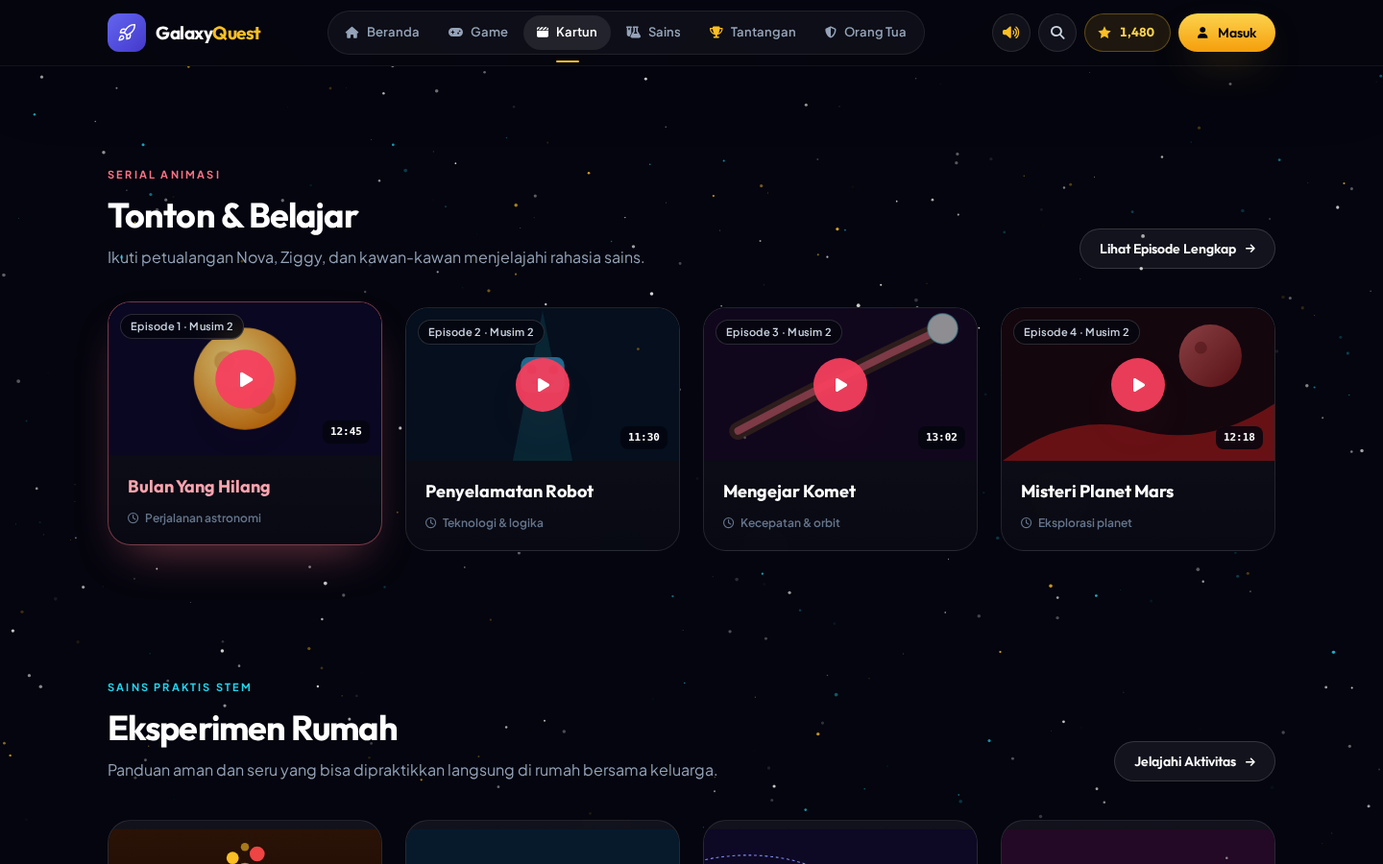
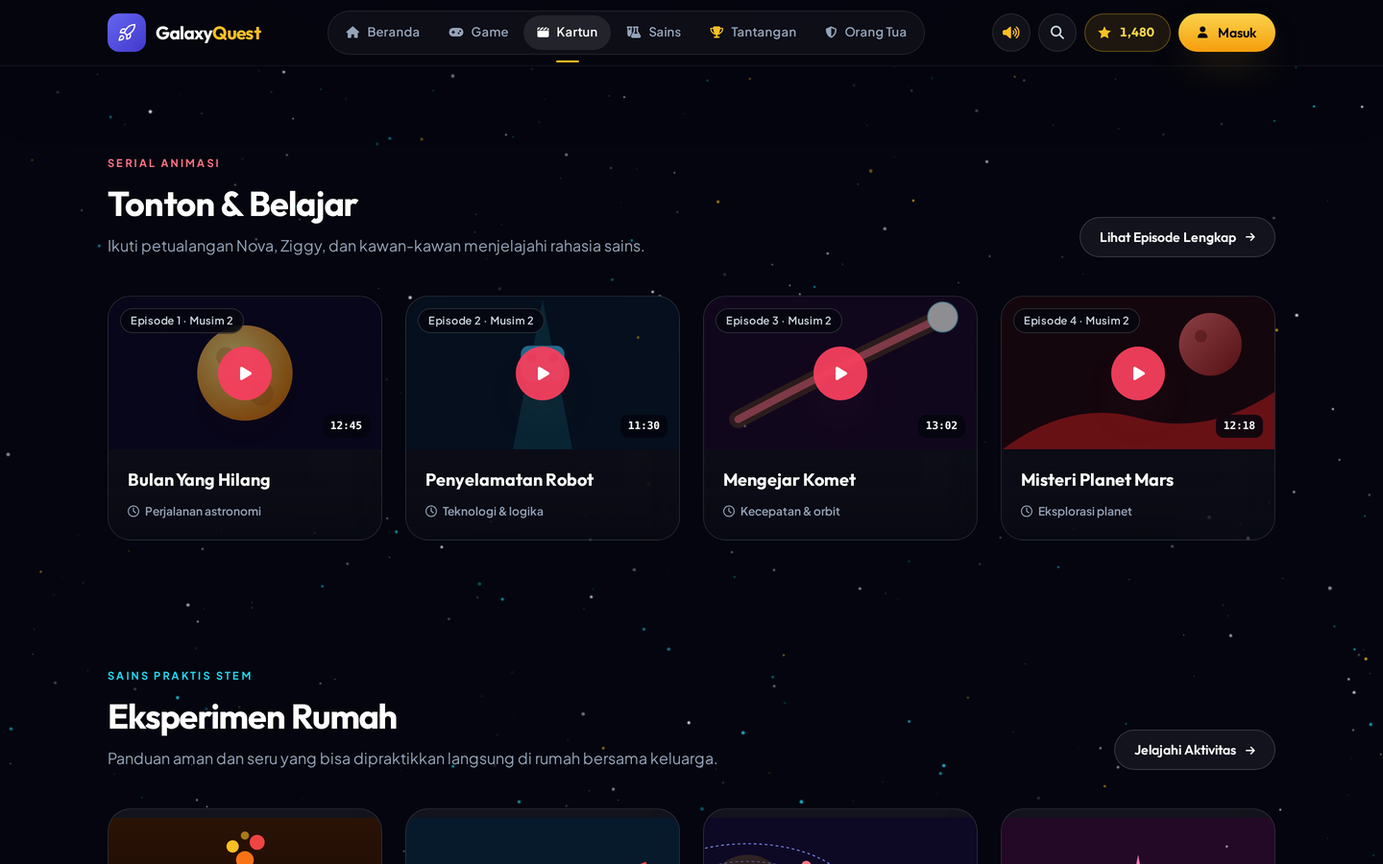
Fix README accuracy and regenerate screenshots
The README stated a contrast figure the code did not meet, and the mobile
screenshot was unusable in the rendered document.

Screenshots
- Regenerate every screenshot from the current UI at 1440x900, supersampled
  from a 2x capture so small text stays crisp.
- 09-mobile.png was a 414x10362 full-page capture displayed at width="140",
  which rendered as a ~140x3504 sliver. Replace it with a 414x896 viewport
  capture and widen the README to 320.
- Modal screenshots now show the live modal states (math game, star
  collection) instead of whatever scroll position happened to be captured.

Accessibility
- Replace text-slate-500 with text-slate-400 across 35 call sites. Those
  labels measured 4.11:1 to 4.27:1 against the dark surfaces, below the
  4.5:1 WCAG AA threshold for their 10-12px sizes. The page now measures a
  minimum of 7.55:1 with zero AA failures across 360/768/1440 widths and all
  16 modal states.

README
- Correct the accessibility claim from "7,9:1" to the measured 7,5:1 and
  name the WCAG AA threshold it is measured against.
- Complete the tailwind.config palette snippet: it omitted ink-850/750/700
  and brand-300/600, and the aqua/coral/mint 300 steps, and never mentioned
  the boxShadow or font tokens defined in the same block.
- Complete the Games.launch() snippet, which omitted the alien and racer
  branches.
- Link the live GitHub Pages demo, which the repo homepage already points at
  but the README never referenced.
[…]

diff --git a/index.html b/index.html
@@ -219,17 +219,17 @@
 
                             <dl class="mt-10 grid grid-cols-3 gap-px overflow-hidden rounded-2xl border border-white/10 bg-white/[0.03] max-w-lg mx-auto lg:mx-0">
                                 <div class="px-4 py-3.5 bg-ink-950/40">
-                                    <dt class="text-[10px] font-bold uppercase tracking-[0.14em] text-slate-500">Pengguna</dt>
+                                    <dt class="text-[10px] font-bold uppercase tracking-[0.14em] text-slate-400">Pengguna</dt>
                                     <dd class="mt-1 font-display font-bold text-white text-lg tabular-nums">1 Juta+</dd>
                                 </div>
                                 <div class="px-4 py-3.5 bg-ink-950/40">
-                                    <dt class="text-[10px] font-bold uppercase tracking-[0.14em] text-slate-500">Rating</dt>
+                                    <dt class="text-[10px] font-bold uppercase tracking-[0.14em] text-slate-400">Rating</dt>
                                     <dd class="mt-1 font-display font-bold text-white text-lg tabular-nums flex items-center gap-1.5">
                                         4.9 <svg viewBox="0 0 24 24" class="w-3.5 h-3.5 fill-sun-400" aria-hidden="true"><path d="m12 2 2.9 6.26L22 9.27l-5 4.87 1.18 6.88L12 17.77l-6.18 3.25L7 14.14 2 9.27l7.1-1.01L12 2Z"/></svg>
                                     </dd>
                                 </div>
                                 <div class="px-4 py-3.5 bg-ink-950/40">
-                                    <dt class="text-[10px] font-bold uppercase tracking-[0.14em] text-slate-500">Materi</dt>
+                                    <dt class="text-[10px] font-bold uppercase tracking-[0.14em] text-slate-400">Materi</dt>
                                     <dd class="mt-1 font-display font-bold text-white text-lg tabular-nums">120+</dd>
                                 </div>
                             </dl>
@@ -291,7 +291,7 @@
                                         </div>
 
                                         <div class="absolute top-4 left-4 card rounded-2xl px-3.5 py-2.5 backdrop-blur-xl">
-                                            <div class="text-[10px] font-bold uppercase tracking-[0.14em] text-slate-500">Kapten Nova</div>
+                                            <div class="text-[10px] font-bold uppercase tracking-[0.14em] text-slate-400">Kapten Nova</div>
                                             <div class="font-display font-bold text-white text-sm mt-0.5">Pemandu Misi</div>
                                         </div>
 
@@ -300,7 +300,7 @@
                                                 <svg viewBox="0 0 24 24" class="w-3.5 h-3.5 fill-sun-400" aria-hidden="true"><path d="m12 2 2.9 6.26L22 9.27l-5 4.87 1.18 6.88L12 17.77l-6.18 3.25L7 14.14 2 9.27l7.1-1.01L12 2Z"/></svg>
                                             </span>
                                             <div>
-                                                <div class="text-[10px] font-bold uppercase tracking-[0.14em] text-slate-500">Misi Aktif</div>
+                                                <div class="text-[10px] font-bold uppercase tracking-[0.14em] text-slate-400">Misi Aktif</div>
                                                 <div class="font-display font-bold text-white text-sm">Nebula Matematika</div>
                                             </div>
                                         </div>
@@ -308,15 +308,15 @@
 
                                     <div class="grid grid-cols-3 gap-2 px-1 pt-3">
                                         <div class="rounded-2xl bg-white/[0.04] border border-white/[0.07] px-3 py-2.5">
-                                            <div class="text-[10px] font-bold uppercase tracking-[0.12em] text-slate-500">Seri</div>
+                                            <div class="text-[10px] font-bold uppercase tracking-[0.12em] text-slate-400">Seri</div>
                                             <div class="font-display font-bold text-white text-sm mt-0.5 tabular-nums">12 hari</div>
                                         </div>
                                         <div class="rounded-2xl bg-white/[0.04] border border-white/[0.07] px-3 py-2.5">
-                                            <div class="text-[10px] font-bold uppercase tracking-[0.12em] text-slate-500">Lencana</div>
+                                            <div class="text-[10px] font-bold uppercase tracking-[0.12em] text-slate-400">Lencana</div>
                                             <div class="font-display font-bold text-white text-sm mt-0.5 tabular-nums">8 / 24</div>
                                         </div>
                                         <div class="rounded-2xl bg-white/[0.04] border border-white/[0.07] px-3 py-2.5">
-                                            <div class="text-[10px] font-bold uppercase tracking-[0.12em] text-slate-500">Akurasi</div>
+                                            <div class="text-[10px] font-bold uppercase tracking-[0.12em] text-slate-400">Akurasi</div>
                                             <div class="font-display font-bold text-mint-400 text-sm mt-0.5 tabular-nums">94%</div>
                                         </div>
                                     </div>
@@ -338,7 +338,7 @@
                                 <span class="icon-tile bg-brand-500/10 border-brand-400/25 text-brand-300"><i class="fa-solid fa-gamepad text-lg" aria-hidden="true"></i></span>
                                 <span class="min-w-0">
                                     <span class="block font-display font-bold text-white text-sm">Main</span>
-                                    <span class="block text-xs text-slate-500 truncate">4 game edukasi</span>
+                                    <span class="block text-xs text-slate-400 truncate">4 game edukasi</span>
                                 </span>
                             </button>
 
@@ -346,7 +346,7 @@
                                 <span class="icon-tile bg-coral-500/10 border-coral-400/25 text-coral-400"><i class="fa-solid fa-clapperboard text-lg" aria-hidden="true"></i></span>
                                 <span class="min-w-0">
                                     <span class="block font-display font-bold text-white text-sm">Tonton</span>
-                                    <span class="block text-xs text-slate-500 truncate">Serial kartun</span>
+                                    <span class="block text-xs text-slate-400 truncate">Serial kartun</span>
                                 </span>
                             </button>
 
@@ -354,7 +354,7 @@
                                 <span class="icon-tile bg-aqua-500/10 border-aqua-400/25 text-aqua-400"><i class="fa-solid fa-flask-vial text-lg" aria-hidden="true"></i></span>
                                 <span class="min-w-0">
                                     <span class="block font-display font-bold text-white text-sm">Sains</span>
-                                    <span class="block text-xs text-slate-500 truncate">Eksperimen STEM</span>
+                                    <span class="block text-xs text-slate-400 truncate">Eksperimen STEM</span>
                                 </span>
                             </button>
 
@@ -362,7 +362,7 @@
                                 <span class="icon-tile bg-sun-400/10 border-sun-400/25 text-sun-400"><i class="fa-solid fa-trophy text-lg" aria-hidden="true"></i></span>
                                 <span class="min-w-0">
                                     <span class="block font-display font-bold text-white text-sm">Misi</span>
-                                    <span class="block text-xs text-slate-500 truncate">Target mingguan</span>
+                                    <span class="block text-xs text-slate-400 truncate">Target mingguan</span>
                                 </span>
                             </button>
 
@@ -370,7 +370,7 @@
                                 <span class="icon-tile bg-white/[0.06] border-white/15 text-white"><i class="fa-solid fa-award text-lg" aria-hidden="true"></i></span>
                                 <span class="min-w-0">
                                     <span class="block font-display font-bold text-white text-sm">Koleksi</span>
-                                    <span class="block text-xs text-slate-500 truncate">Hadiah bintang</span>
+                                    <span class="block text-xs text-slate-400 truncate">Hadiah bintang</span>
                                 </span>
                             </button>
 
@@ -589,7 +589,7 @@
                             </span>
                             <span class="flex flex-col flex-1 p-5">
                                 <h3 class="card-title group-hover:text-coral-300">Bulan Yang Hilang</h3>
-                                <span class="mt-3 flex items-center gap-1.5 text-xs text-slate-500 font-semibold">
+                                <span class="mt-3 flex items-center gap-1.5 text-xs text-slate-400 font-semibold">
                                     <i class="fa-regular fa-clock" aria-hidden="true"></i> Perjalanan astronomi
                                 </span>
                             </span>
@@ -619,7 +619,7 @@
                             </span>
                             <span class="flex flex-col flex-1 p-5">
                                 <h3 class="card-title group-hover:text-coral-300">Penyelamatan Robot</h3>
-                                <span class="mt-3 flex items-center gap-1.5 text-xs text-slate-500 font-semibold">
+                                <span class="mt-3 flex items-center gap-1.5 text-xs text-slate-400 font-semibold">
                                     <i class="fa-regular fa-clock" aria-hidden="true"></i> Teknologi &amp; logika
                                 </span>
                             </span>
@@ -647,7 +647,7 @@
                             </span>
                             <span class="flex flex-col flex-1 p-5">
                                 <h3 class="card-title group-hover:text-coral-300">Mengejar Komet</h3>
-                                <span class="mt-3 flex items-center gap-1.5 text-xs text-slate-500 font-semibold">
+                                <span class="mt-3 flex items-center gap-1.5 text-xs text-slate-400 font-semibold">
                                     <i class="fa-regular fa-clock" aria-hidden="true"></i> Kecepatan &amp; orbit
                                 </span>
                             </span>
@@ -678,7 +678,7 @@
                             </span>
                             <span class="flex flex-col flex-1 p-5">
                                 <h3 class="card-title group-hover:text-coral-300">Misteri Planet Mars</h3>
-                                <span class="mt-3 flex items-center gap-1.5 text-xs text-slate-500 font-semibold">
+                                <span class="mt-3 flex items-center gap-1.5 text-xs text-slate-400 font-semibold">
                                     <i class="fa-regular fa-clock" aria-hidden="true"></i> Eksplorasi planet
                                 </span>
                             </span>
@@ -725,7 +725,7 @@
                                 <span class="chip w-fit bg-sun-400/10 border-sun-400/25 text-sun-300">Reaksi Kimia</span>
                                 <h3 class="card-title mt-3 group-hover:text-sun-300">Gunung Berapi Mini</h3>
                                 <p class="mt-2 text-[13px] text-slate-400 leading-relaxed flex-1">Reaksi soda kue dan cuka menciptakan erupsi buih warna-warni.</p>
-                                <span class="mt-4 pt-4 divider flex items-center gap-1.5 text-xs font-semibold text-slate-500">
+                                <span class="mt-4 pt-4 divider flex items-center gap-1.5 text-xs font-semibold text-slate-400">
                                     <i class="fa-solid fa-shield-halved text-mint-400" aria-hidden="true"></i> Aman di rumah · 15 menit
                                 </span>
                             </span>
@@ -749,7 +749,7 @@
                                 <span class="chip w-fit bg-aqua-400/10 border-aqua-400/25 text-aqua-300">Optika &amp; Fisika</span>
                                 <h3 class="card-title mt-3 group-hover:text-aqua-300">Pelangi Dalam Kamar</h3>
                                 <p class="mt-2 text-[13px] text-slate-400 leading-relaxed flex-1">Gunakan prisma air dan pembiasan cahaya matahari.</p>
-                                <span class="mt-4 pt-4 divider flex items-center gap-1.5 text-xs font-semibold text-slate-500">
+                                <span class="mt-4 pt-4 divider flex items-center gap-1.5 text-xs font-semibold text-slate-400">
                                     <i class="fa-solid fa-shield-halved text-mint-400" aria-hidden="true"></i> Aman di rumah · 10 menit
                                 </span>
                             </span>
@@ -773,7 +773,7 @@
                                 <span class="chip w-fit bg-brand-400/10 border-brand-400/25 text-brand-300">Astronomi</span>
                                 <h3 class="card-title mt-3 group-hover:text-brand-300">Model Tata Surya</h3>
                                 <p class="mt-2 text-[13px] text-slate-400 leading-relaxed flex-1">Buat replika urutan planet dengan skala jarak sederhana.</p>
-                                <span class="mt-4 pt-4 divider flex items-center gap-1.5 text-xs font-semibold text-slate-500">
+                                <span class="mt-4 pt-4 divider flex items-center gap-1.5 text-xs font-semibold text-slate-400">
                                     <i class="fa-solid fa-shield-halved text-mint-400" aria-hidden="true"></i> Butuh pendamping · 30 menit
                                 </span>
                             </span>
@@ -795,7 +795,7 @@
                                 <span class="chip w-fit bg-coral-400/10 border-coral-400/25 text-coral-300">Kristalografi</span>
                                 <h3 class="card-title mt-3 group-hover:text-coral-300">Menumbuhkan Kristal</h3>
                                 <p class="mt-2 text-[13px] text-slate-400 leading-relaxed flex-1">Pelajari proses kristalisasi larutan garam mineral alami.</p>
-                                <span class="mt-4 pt-4 divider flex items-center gap-1.5 text-xs font-semibold text-slate-500">
+                                <span class="mt-4 pt-4 divider flex items-center gap-1.5 text-xs font-semibold text-slate-400">
                                     <i class="fa-solid fa-shield-halved text-mint-400" aria-hidden="true"></i> Butuh pendamping · 3 hari
                                 </span>
                             </span>
@@ -831,7 +831,7 @@
                                     </span>
                                     <span class="text-center">
                                         <span class="block font-display font-bold text-white text-[13px] leading-tight">Nova</span>
-                                        <span class="block text-[10px] font-semibold uppercase tracking-wider text-slate-500 mt-0.5">Kapten</span>
+                                        <span class="block text-[10px] font-semibold uppercase tracking-wider text-slate-400 mt-0.5">Kapten</span>
                                     </span>
                                 </button>
 
@@ -851,7 +851,7 @@
                                     </span>
                                     <span class="text-center">
                                         <span class="block font-display font-bold text-white text-[13px] leading-tight">Ziggy</span>
-                                        <span class="block text-[10px] font-semibold uppercase tracking-wider text-slate-500 mt-0.5">Robot AI</span>
+                                        <span class="block text-[10px] font-semibold uppercase tracking-wider text-slate-400 mt-0.5">Robot AI</span>
                                     </span>
                                 </button>
 
@@ -867,7 +867,7 @@
                                     </span>
                                     <span class="text-center">
                                         <span class="block font-display font-bold text-white text-[13px] leading-tight">Luna</span>
-                                        <span class="block text-[10px] font-semibold uppercase tracking-wider text-slate-500 mt-0.5">Ilmuwan</span>
+                                        <span class="block text-[10px] font-semibold uppercase tracking-wider text-slate-400 mt-0.5">Ilmuwan</span>
                                     </span>
                                 </button>
 
@@ -884,7 +884,7 @@
                                     </span>
                                     <span class="text-center">
                                         <span class="block font-display font-bold text-white text-[13px] leading-tight">Orbit</span>
-                                        <span class="block text-[10px] font-semibold uppercase tracking-wider text-slate-500 mt-0.5">Alien Ramah</span>
+                                        <span class="block text-[10px] font-semibold uppercase tracking-wider text-slate-400 mt-0.5">Alien Ramah</span>
                                     </span>
                                 </button>
 
@@ -901,7 +901,7 @@
                                     </span>
                                     <span class="text-center">
                                         <span class="block font-display font-bold text-white text-[13px] leading-tight">Comet</span>
-                                        <span class="block text-[10px] font-semibold uppercase tracking-wider text-slate-500 mt-0.5">Pilot</span>
+                                        <span class="block text-[10px] font-semibold uppercase tracking-wider text-slate-400 mt-0.5">Pilot</span>
                                     </span>
                                 </button>
                             </div>
@@ -936,7 +936,7 @@
                                     <div class="w-full h-2 rounded-full bg-white/10 overflow-hidden">
                                         <div id="challengeProgressBar" class="h-full rounded-full bg-gradient-to-r from-sun-300 to-sun-500 transition-all duration-500" style="width: 66%;"></div>
                                     </div>
-                                    <div class="mt-3 flex items-center gap-4 text-[11px] text-slate-500 font-semibold">
+                                    <div class="mt-3 flex items-center gap-4 text-[11px] text-slate-400 font-semibold">
                                         <span class="flex items-center gap-1.5"><i class="fa-solid fa-circle-check text-mint-400" aria-hidden="true"></i> 3 tugas</span>
                                         <span class="flex items-center gap-1.5"><i class="fa-solid fa-gift text-brand-400" aria-hidden="true"></i> 100 bintang</span>
                                     </div>
@@ -1026,7 +1026,7 @@
                                 </span>
                                 <span>
                                     <span class="block font-display font-bold text-white text-sm">Siti Rahma</span>
-                                    <span class="block text-xs text-slate-500 mt-0.5">Ibu dari 2 anak · Pengguna 2 tahun</span>
+                                    <span class="block text-xs text-slate-400 mt-0.5">Ibu dari 2 anak · Pengguna 2 tahun</span>
                                 </span>
                             </figcaption>
                         </figure>
@@ -1133,7 +1133,7 @@
                     </div>
                 </div>
 
-                <div class="mt-12 pt-6 border-t border-white/[0.07] flex flex-col sm:flex-row items-center justify-between gap-4 text-xs text-slate-500">
+                <div class="mt-12 pt-6 border-t border-white/[0.07] flex flex-col sm:flex-row items-center justify-between gap-4 text-xs text-slate-400">
                     <p>&copy; 2026 Galaxy Quest Learning Inc. Hak cipta dilindungi undang-undang.</p>
                     <div class="flex flex-wrap justify-center gap-5">
                         <a href="#" class="hover:text-slate-300 transition-colors">Kebijakan Privasi</a>
@@ -1219,7 +1219,7 @@
                     icon.className = 'fa-solid fa-volume-high text-sun-400 text-sm';
                     Toast.show('Efek suara diaktifkan', 'fa-volume-high');
                 } else {
-                    icon.className = 'fa-solid fa-volume-xmark text-slate-500 text-sm';
+                    icon.className = 'fa-solid fa-volume-xmark text-slate-400 text-sm';
                     Toast.show('Efek suara dinonaktifkan', 'fa-volume-xmark');
                 }
             }
@@ -1331,7 +1331,7 @@
             ui: {
                 badge: 'grid place-items-center w-14 h-14 rounded-2xl text-xl shrink-0',
                 panel: 'rounded-2xl bg-white/[0.03] border border-white/[0.08] p-4',
-                label: 'text-[10px] font-bold uppercase tracking-[0.14em] text-slate-500',
+                label: 'text-[10px] font-bold uppercase tracking-[0.14em] text-slate-400',
                 btnPrimary: 'w-full py-3.5 rounded-xl bg-gradient-to-b from-sun-300 to-sun-500 text-ink-950 font-display font-bold shadow-glow-sun hover:-translate-y-0.5 active:translate-y-0 transition-transform duration-200',
                 btnSoft: 'w-full py-3.5 rounded-xl bg-white/[0.06] border border-white/15 text-white font-display font-bold hover:bg-white/[0.12] transition-colors duration-200'
             },
@@ -1472,7 +1472,7 @@
                     <div class="space-y-4">
                         <h3 class="font-display font-bold text-white text-lg">Cari di Galaxy Quest</h3>
                         <div class="relative">
-                            <i class="fa-solid fa-magnifying-glass absolute left-4 top-1/2 -translate-y-1/2 text-slate-500 text-sm" aria-hidden="true"></i>
+                            <i class="fa-solid fa-magnifying-glass absolute left-4 top-1/2 -translate-y-1/2 text-slate-400 text-sm" aria-hidden="true"></i>
                             <input type="text" id="searchInput" onkeyup="if(event.key==='Enter'){ Toast.show('Pencarian dimuat', 'fa-magnifying-glass'); Modals.close(); }" placeholder="Cari game, kartun, atau sains..." class="w-full py-3.5 pl-11 pr-4 bg-ink-900 border border-white/15 rounded-xl text-white placeholder-slate-500 text-sm focus:outline-none focus:border-brand-400 transition-colors">
                         </div>
                         <div>
@@ -1532,7 +1532,7 @@
                                         <i class="fa-solid fa-circle ${AppState.stars >= t ? 'text-mint-400' : 'text-slate-600'} text-[6px]" aria-hidden="true"></i>
                                         Lencana ${t.toLocaleString()} bintang
                                     </span>
-                                    <span class="${AppState.stars >= t ? 'text-mint-400' : 'text-slate-500'} font-bold">${AppState.stars >= t ? 'Terbuka' : `${(t - AppState.stars).toLocaleString()} lagi`}</span>
+                                    <span class="${AppState.stars >= t ? 'text-mint-400' : 'text-slate-400'} font-bold">${AppState.stars >= t ? 'Terbuka' : `${(t - AppState.stars).toLocaleString()} lagi`}</span>
                                 </div>
                             `).join('')}
                         </div>
@@ -1587,7 +1587,7 @@
                                 <button onclick="Games.checkMath(${opt})" class="py-3.5 rounded-xl bg-white/[0.06] border border-white/10 text-white font-display font-bold text-lg hover:bg-brand-500 hover:border-brand-400 hover:text-white transition-colors duration-200 tabular-nums">${opt}</button>
                             `).join('')}
                         </div>
-                        <div class="flex items-center gap-2.5 text-xs text-slate-500">
+                        <div class="flex items-center gap-2.5 text-xs text-slate-400">
                             <i class="fa-solid fa-star text-sun-400" aria-hidden="true"></i> Hadiah: 50 bintang untuk jawaban benar
                         </div>
                     </div>
@@ -1625,7 +1625,7 @@
                                 <button id="card-${idx}" onclick="Games.flipCard(${idx}, '${icon}')" aria-label="Kartu ${idx + 1}" class="h-20 rounded-2xl bg-ink-900 border border-mint-400/30 text-3xl grid place-items-center font-bold text-transparent hover:border-mint-400/70 transition-colors duration-200">?</button>
                             `).join('')}
                         </div>
-                        <div class="flex items-center gap-2.5 text-xs text-slate-500">
+                        <div class="flex items-center gap-2.5 text-xs text-slate-400">
                             <i class="fa-solid fa-star text-sun-400" aria-hidden="true"></i> Hadiah: 60 bintang jika semua pasangan ditemukan
                         </div>
                     </div>

diff --git a/README.md b/README.md
@@ -12,6 +12,8 @@
 [![License: MIT](https://img.shields.io/badge/License-MIT-yellow.svg)](LICENSE)
 [![Bahasa](https://img.shields.io/badge/bahasa-Indonesia-red.svg)](#)
 
+**[🚀 Buka demo langsung →](https://antono4.github.io/GalaxyQuest/)**
+
 [Tentang](#-tentang) · [Tangkapan Layar](#-tangkapan-layar) · [Fitur](#-fitur) · [Menjalankan](#-menjalankan-proyek) · [Lisensi](#-lisensi)
 
 </div>
@@ -113,7 +115,7 @@ pengaturan pendampingan.
 ### Tampilan Seluler
 
 <div align="center">
-  <img src="docs/screenshots/09-mobile.png" alt="Tampilan Galaxy Quest pada layar ponsel" width="140">
+  <img src="docs/screenshots/09-mobile.png" alt="Tampilan Galaxy Quest pada layar ponsel" width="320">
 </div>
 
 Sepenuhnya responsif — tata letak menyesuaikan dari ponsel hingga layar lebar.
@@ -152,7 +154,7 @@ Sepenuhnya responsif — tata letak menyesuaikan dari ponsel hingga layar lebar.
   dipindahkan ke tombol tutup saat modal dibuka dan *scroll* halaman dikunci.
 - Tautan **"Lewati ke konten utama"** untuk pengguna keyboard dan pembaca layar.
 - Setiap elemen interaktif memiliki `aria-label`, indikator fokus yang terlihat, dan
-  kontras teks minimal 7,9:1.
+  kontras teks terukur minimal **7,5:1** — di atas ambang WCAG AA (4,5:1).
 - Animasi otomatis dinonaktifkan saat pengguna mengaktifkan `prefers-reduced-motion`.
 
 ---
@@ -249,14 +251,20 @@ utama), `sun` (hadiah & CTA), `aqua` (sains), `coral` (kartun), `mint` (status a
 
 ```js
 colors: {
-  ink:   { 950: '#04050e', 900: '#090b18', 800: '#141830' }, // latar & kartu
-  brand: { 400: '#818cf8', 500: '#6366f1', 700: '#4338ca' }, // aksi utama
+  ink:   { 950: '#04050e', 900: '#090b18', 850: '#0e1123',
+           800: '#141830', 750: '#1a1f3d', 700: '#232850' }, // latar & kartu
+  brand: { 300: '#a5b4fc', 400: '#818cf8', 500: '#6366f1',
+           600: '#4f46e5', 700: '#4338ca' },                 // aksi utama
   sun:   { 300: '#fcd34d', 400: '#fbbf24', 500: '#f59e0b' }, // bintang & tombol utama
-  aqua:  { 400: '#22d3ee', 500: '#06b6d4' },                 // eksperimen sains
-  coral: { 400: '#fb7185', 500: '#f43f5e' },                 // serial kartun
-  mint:  { 400: '#34d399', 500: '#10b981' },                 // status aman
+  aqua:  { 300: '#67e8f9', 400: '#22d3ee', 500: '#06b6d4' }, // eksperimen sains
+  coral: { 300: '#fda4af', 400: '#fb7185', 500: '#f43f5e' }, // serial kartun
+  mint:  { 300: '#6ee7b7', 400: '#34d399', 500: '#10b981' }, // status aman
 }
 ```
+
+Blok yang sama juga mendefinisikan token elevasi (`boxShadow`: `glow-sun`,
+`glow-brand`, `glow-aqua`, `glow-coral`, `glow-mint`, `panel`) dan dua keluarga font
+(`display` untuk judul, `body` untuk teks).
 
 Gaya komponen yang dipakai ulang (`.btn`, `.card`, `.chip`, `.nav-link`, `.icon-tile`,
 dan varian hover seperti `.hover-brand`) didefinisikan sekali di blok
@@ -270,8 +278,9 @@ penanganannya di objek `Games`:
 const Games = {
   launch(type) {
     if (type === 'math') this.startMathGame();
+    else if (type === 'alien') this.startMemoryGame();
     else if (type === 'planet') this.startPlanetBuilder();
-    // tambahkan tipe baru di sini
+    else if (type === 'racer') this.startSpaceRacer();
   }
 };
 ```
